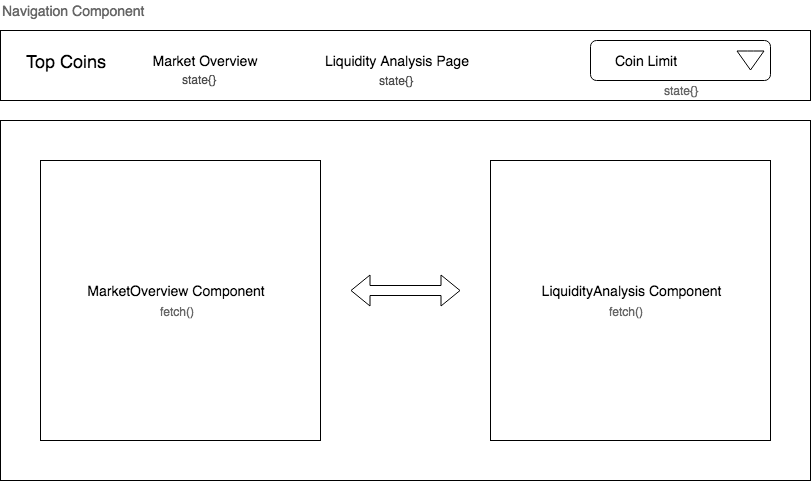
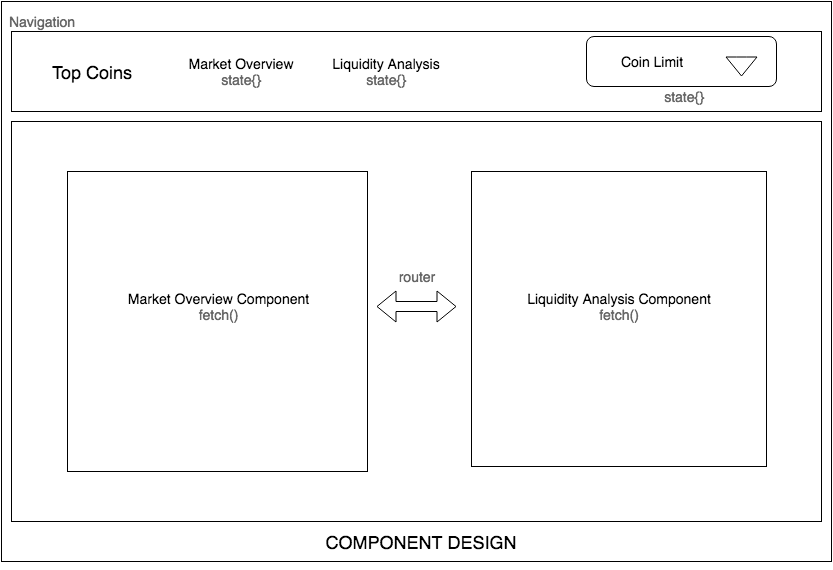
1.Updated README.md. 2.Changed the app title to Top Coins.

diff --git a/public/index.html b/public/index.html
@@ -22,7 +22,7 @@
       work correctly both with client-side routing and a non-root public URL.
       Learn how to configure a non-root public URL by running `npm run build`.
     -->
-    <title>React App</title>
+    <title>Top Coins</title>
   </head>
   <body>
     <noscript>

diff --git a/src/App.js b/src/App.js
@@ -79,7 +79,6 @@ class App extends Component {
 
 
 	render() {
-
 		return (
 			<div>
 				<Router>

diff --git a/README.md b/README.md
@@ -4,11 +4,36 @@
 $ yarn install
 $ yarn start
 $ yarn test
-
 ```
+
+## Introduction
+
+Welcome to Top Coins webapp. 
+
+The app aims at presenting top coins data through a table and a Scatter Plot Chart. 
+
+## Problem and Solution
+
+
 
 ## Component Design
 
+![](componentDesign.png) 
+
+- __App Component__: Controls navigation and is responsible for passing real-time data to nav-items.
+
+The App Component uses two main components:
+
+- __MarketOverview Component__: Renders a table with data received from ticker api.
+- __LiquidityAnalysis Component__: Renders an interactive Scatter Chart to show the market cap, volume and price change of each coin. 
+
+Components for customization and code simplicity:
+
+- __MarketOverviewRow Component__: Passes real-time data as props to the table.
+- __CustomTooltip Component__: To customize tooltips for the Scatter Plot Chart. 
+
 ## Technical Choices
+
+
 
 ## Roadmap
